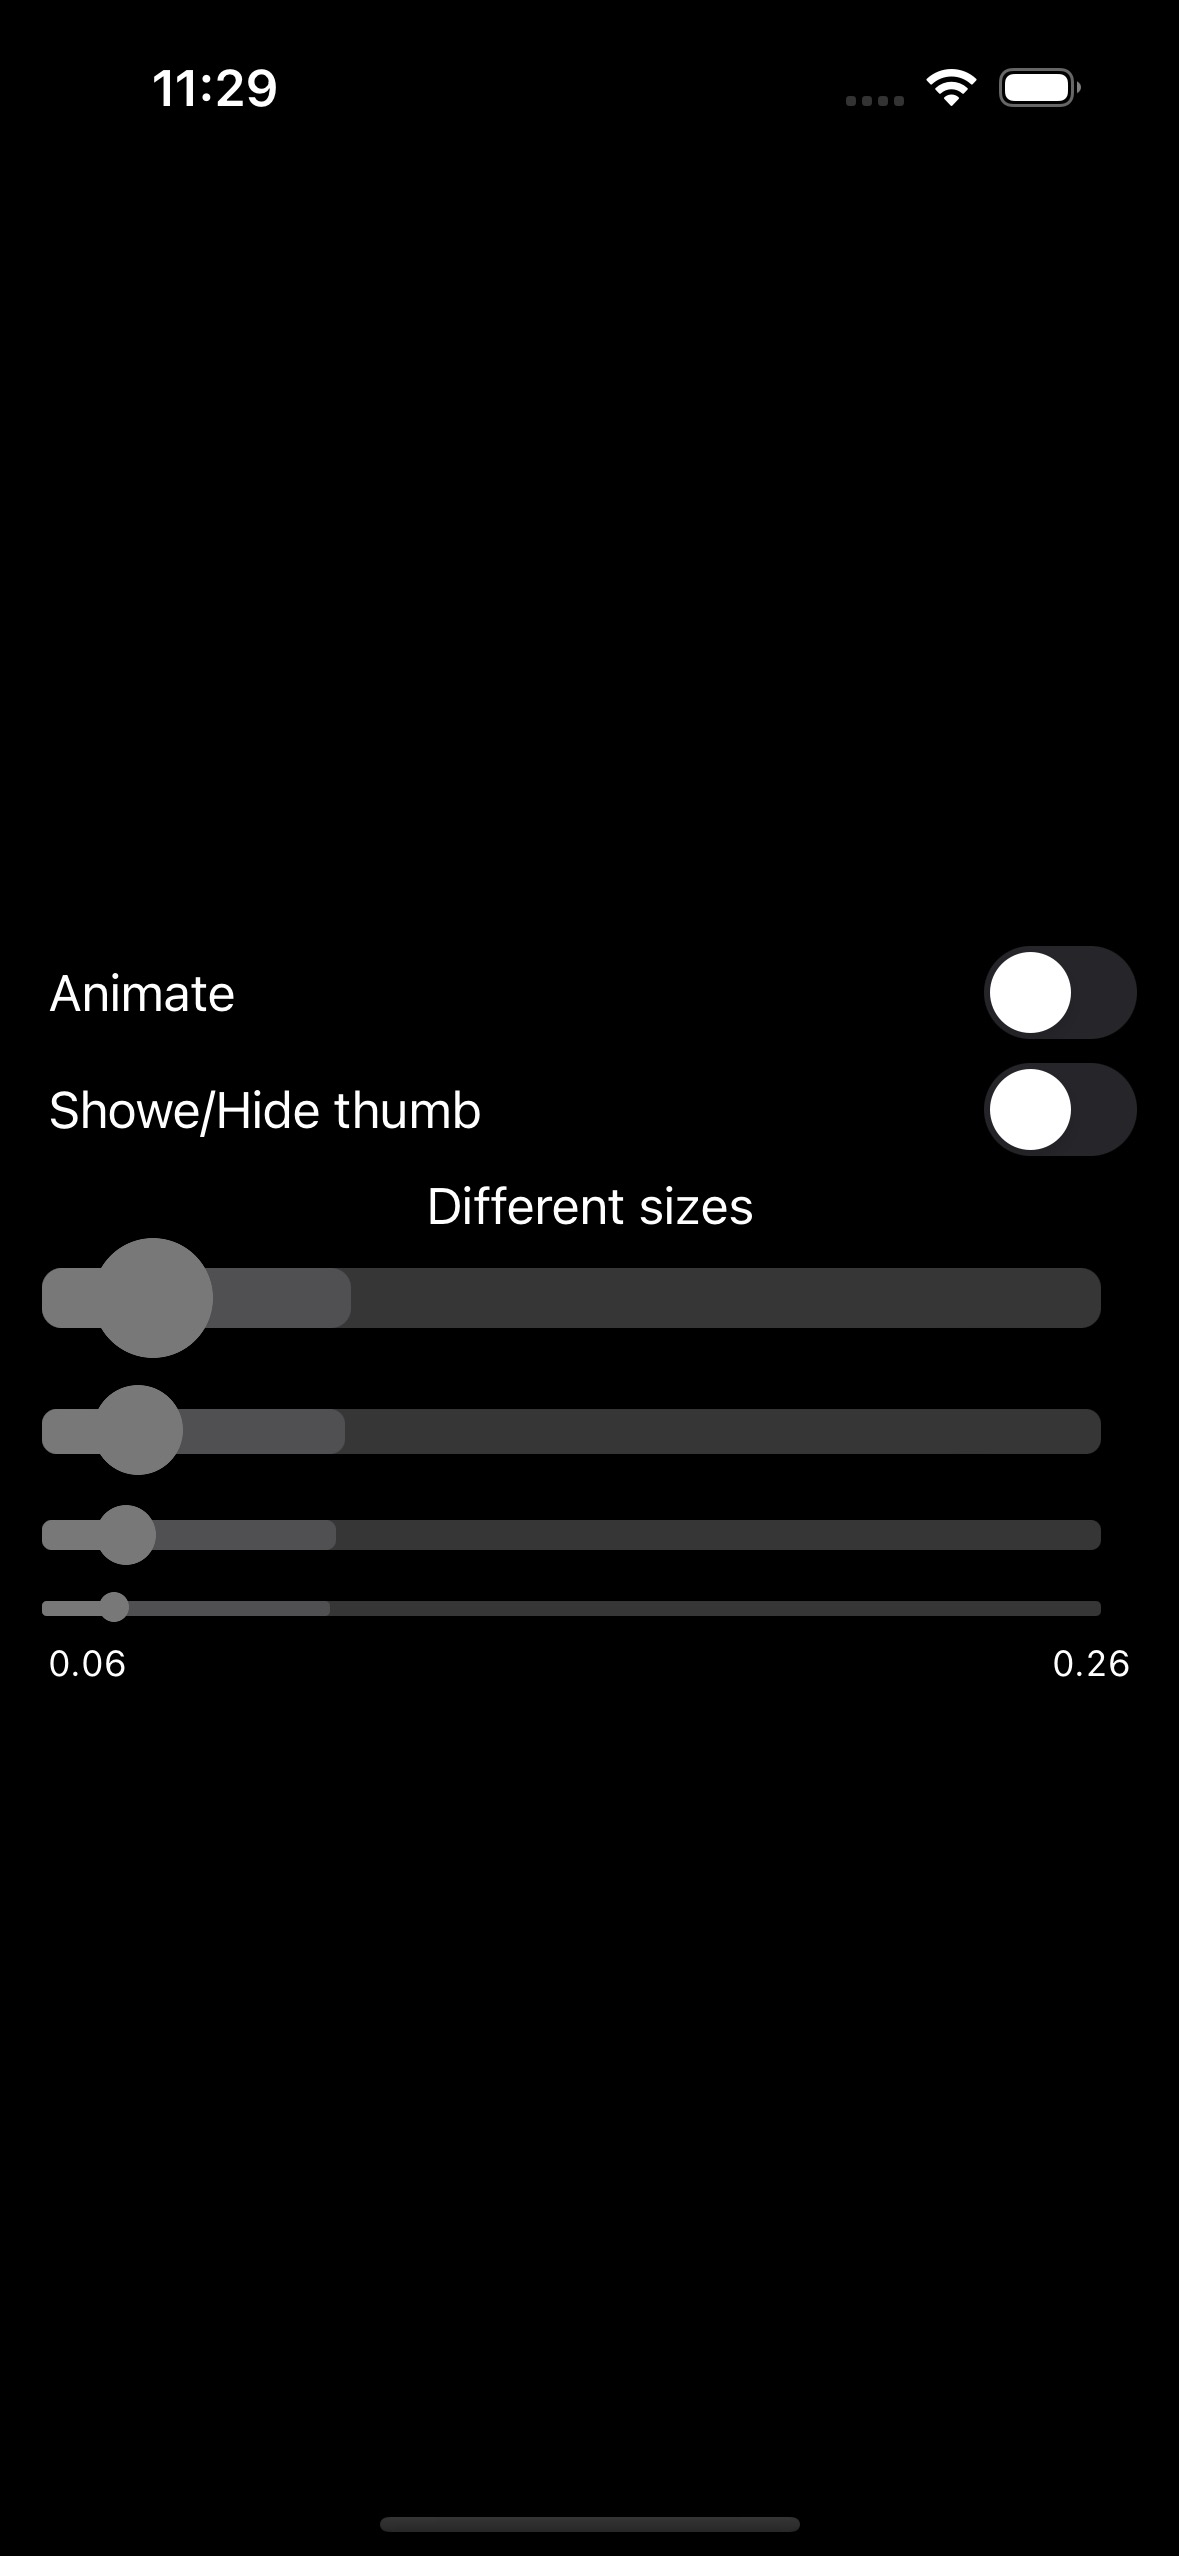
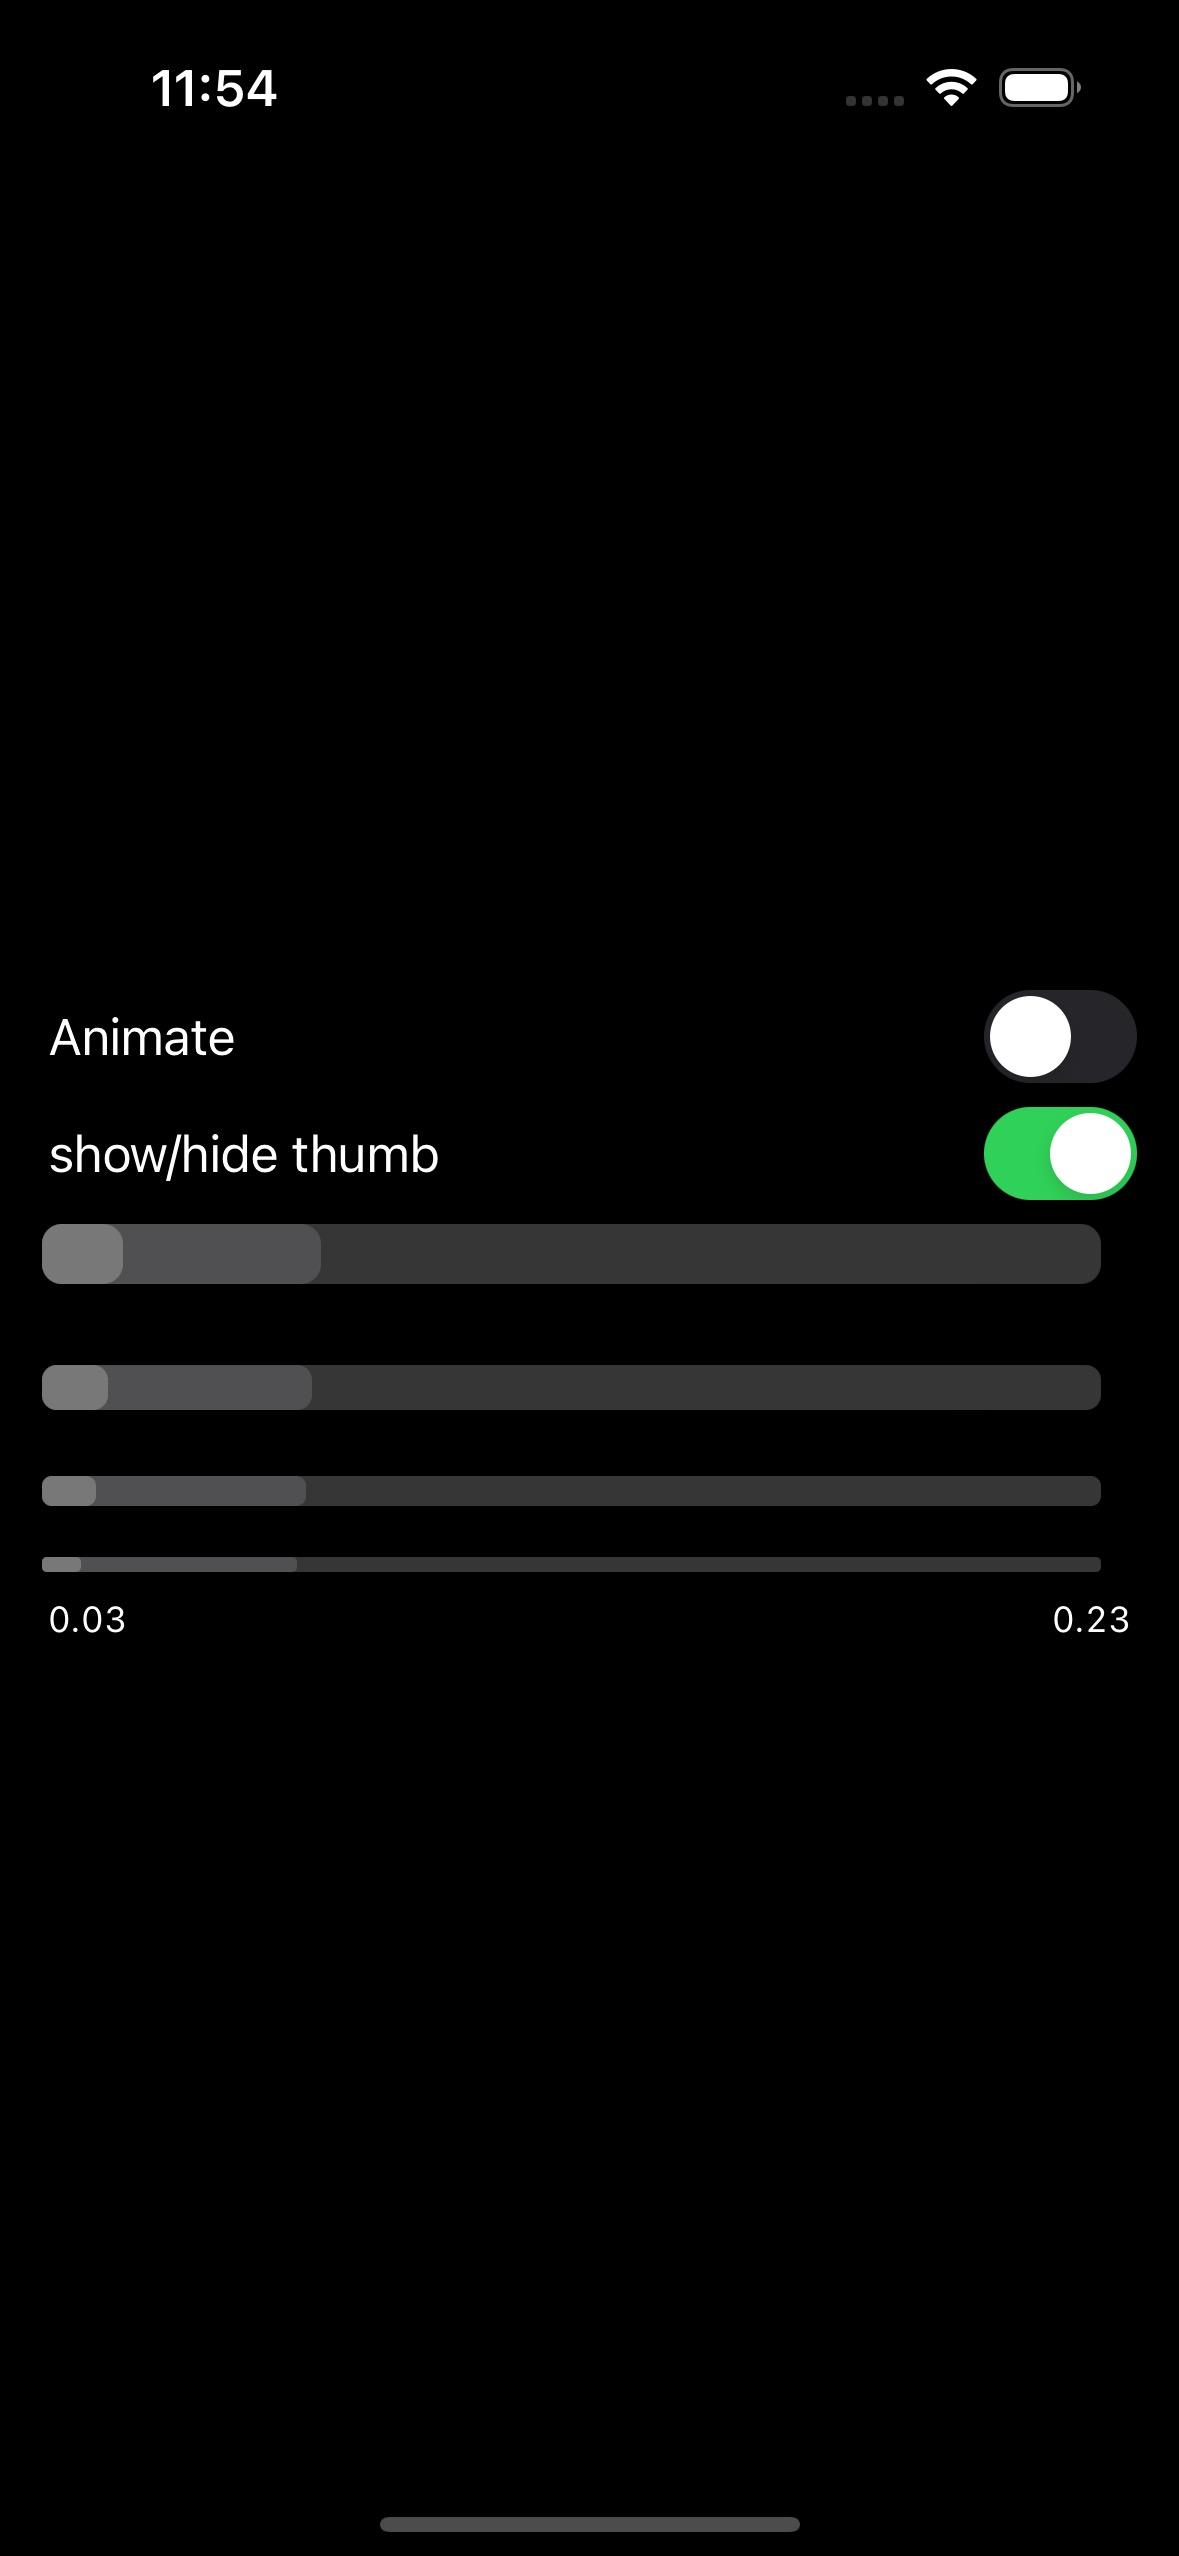
Fix typo

Changed region(s): [[0.0305, 0.3709, 0.9771, 0.6491], [0.3359, 0.9581, 0.6718, 1.0], [0.1832, 0.0309, 0.2443, 0.0618]]

diff --git a/OSliderExample/OSliderExample/ContentView.swift b/OSliderExample/OSliderExample/ContentView.swift
@@ -22,8 +22,7 @@ struct ContentView: View {
     var body: some View {
         VStack {
             Toggle("Animate", isOn: $isAnimating)
-            Toggle("Showe/Hide thumb", isOn: $hideThumb)
-            Text("Different sizes")
+            Toggle("show/hide thumb", isOn: $hideThumb)
             OSliderView(value: $sliderValue, bufferValue: $bufferValue, isAnimating: $isAnimating, hideThumb: $hideThumb, lineHeight: CGFloat(sliderHeight+15), bufferProgressColor: Color.gray.opacity(0.3))
             OSliderView(value: $sliderValue, bufferValue: $bufferValue, isAnimating: $isAnimating, hideThumb: $hideThumb, lineHeight: CGFloat(sliderHeight+10), bufferProgressColor: Color.gray.opacity(0.3))
             OSliderView(value: $sliderValue, bufferValue: $bufferValue, isAnimating: $isAnimating, hideThumb: $hideThumb, lineHeight: CGFloat(sliderHeight+5), bufferProgressColor: Color.gray.opacity(0.3))
